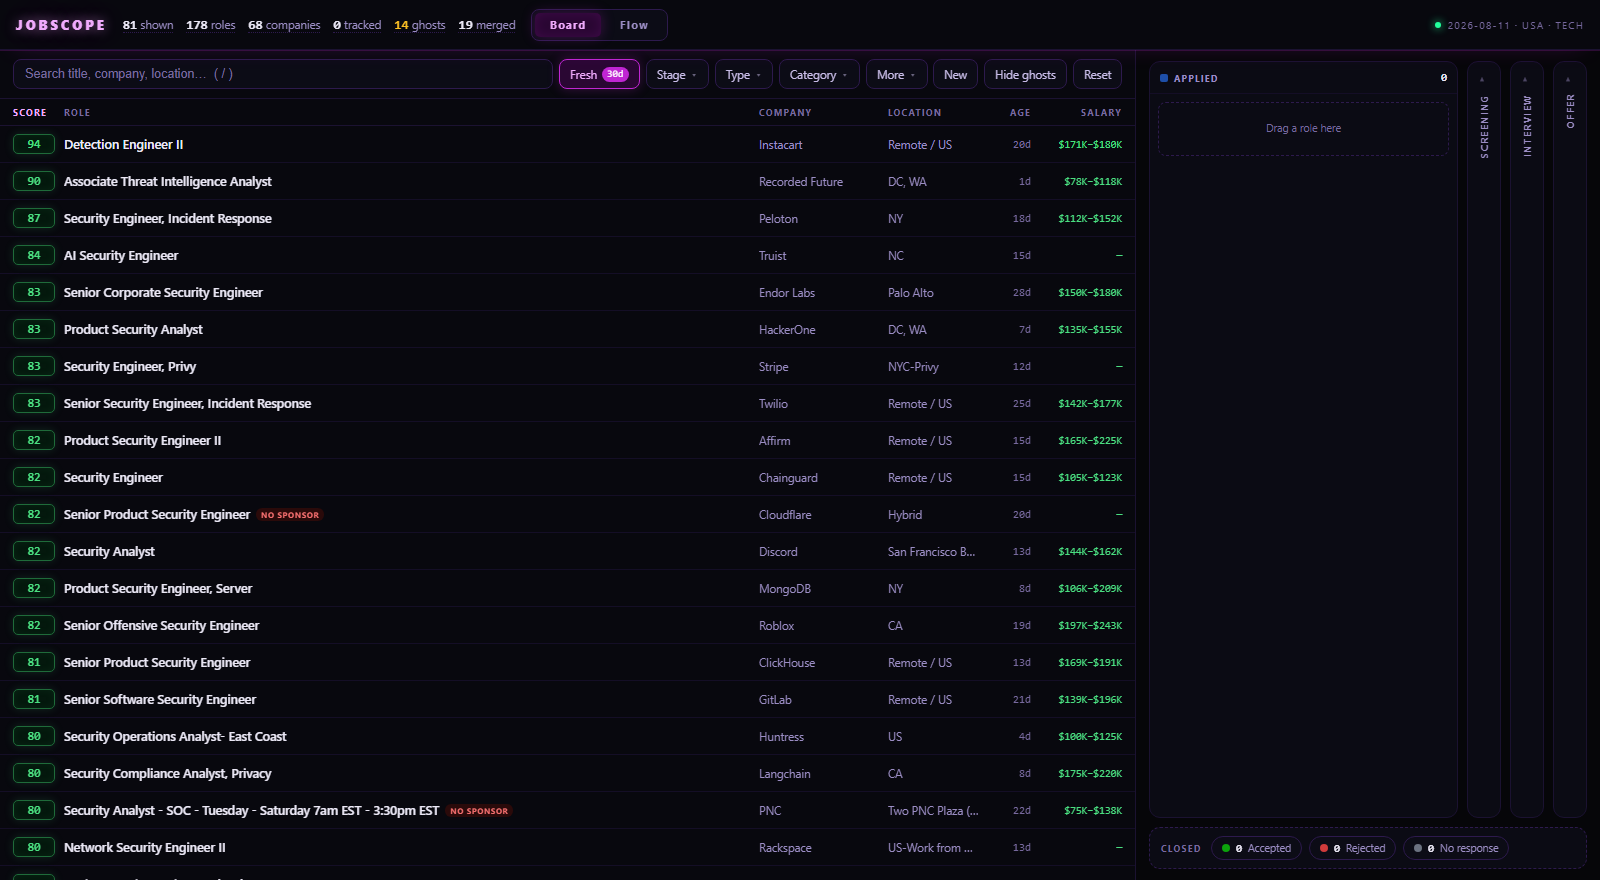
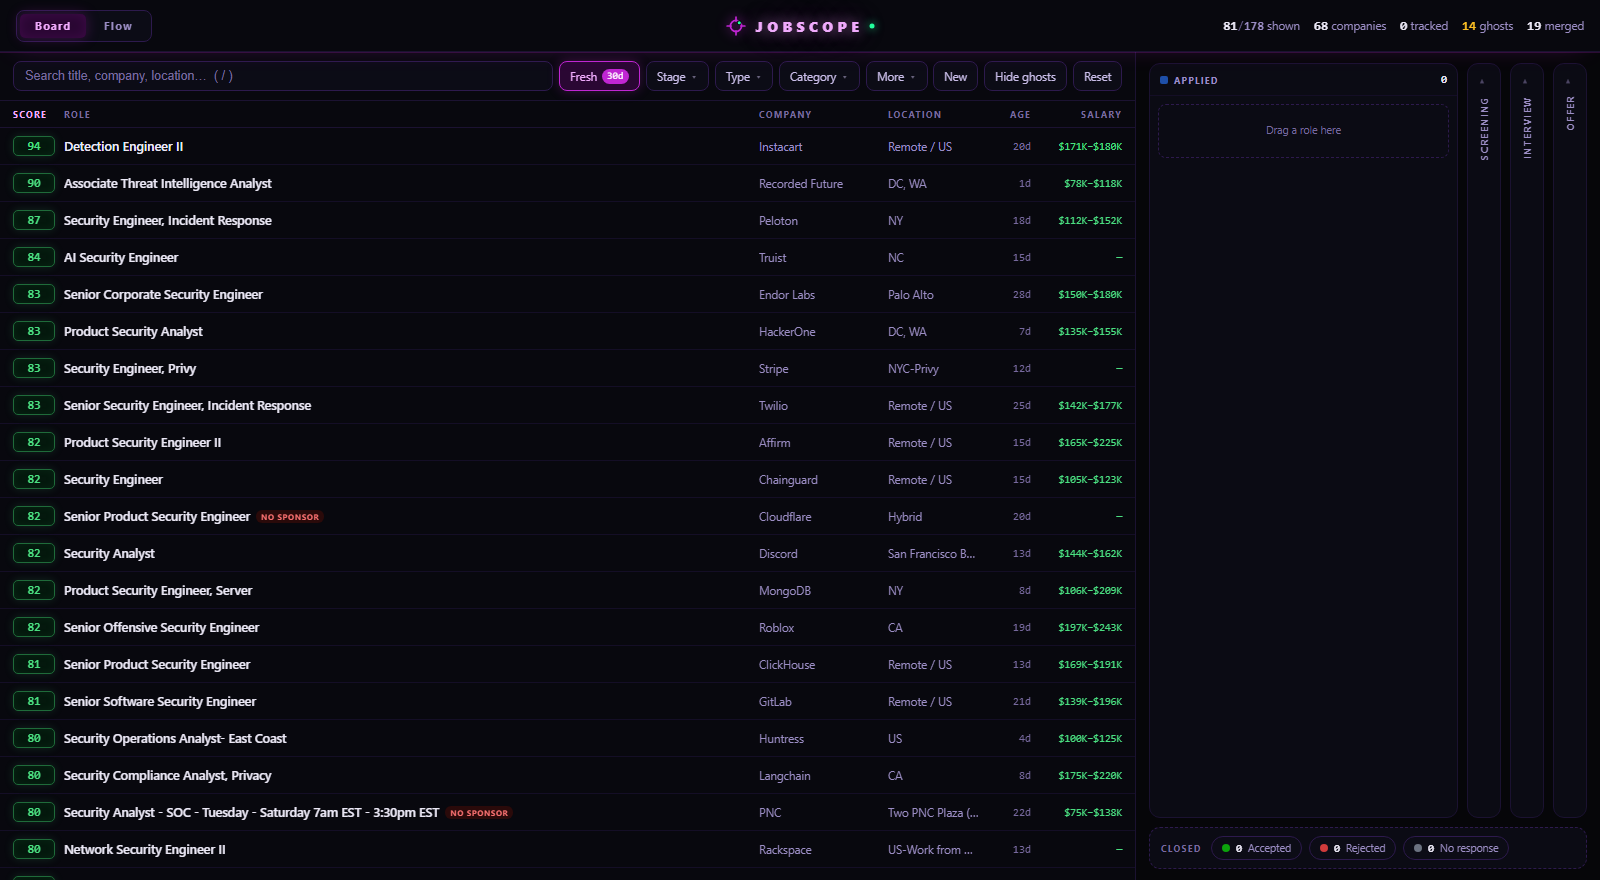
Kanban titles link to the posting; centre the brand and rebalance the header
A card parked in Applied is precisely the thing you come back to apply to, and
there was no way to reach the posting from it — clicking anywhere opened the
note editor instead. The card title is now the link. Two details that matter:
draggable="false" on the anchor, or the browser hijacks the card's drag with
its own link-drag and the card can no longer be grabbed by its title; and the
note toggle now ignores clicks that landed on a link.

Header: tabs left, brand dead-centre, stats right. The brand is absolutely
positioned rather than flexed so it sits on the page's midline regardless of
how wide the side groups grow, and its mark is the same reticle as the taskbar
icon. The run date and "USA · tech" line is gone from the corner and lives in
the brand's tooltip instead; "shown" now reads 81/178 rather than needing a
separate total.

diff --git a/scripts/dashboard_assets.py b/scripts/dashboard_assets.py
@@ -62,26 +62,42 @@ button{font-family:inherit}
 .app{display:flex;flex-direction:column;height:100vh}
 
 /* ---------------------------------------------------------------- top bar */
-.top{display:flex;align-items:center;gap:16px;padding:0 16px;height:50px;flex-shrink:0;
+/* Tabs left, brand dead-centre, stats right. The brand is absolutely centred
+   rather than flexed, so it stays on the page's midline no matter how wide the
+   two side groups grow. The mark is the same reticle as the taskbar icon. */
+.top{display:flex;align-items:center;gap:16px;padding:0 16px;height:52px;flex-shrink:0;
      background:var(--pane);border-bottom:1px solid var(--edge);position:relative;z-index:40;
      box-shadow:0 1px 0 #c026d333,0 8px 26px -16px #c026d355}
-.brand{font-size:13px;font-weight:800;letter-spacing:3px;text-transform:uppercase;
-       color:var(--neon-ink);text-shadow:0 0 12px #f0abfc99,0 0 32px #c026d355}
-.kpi{display:flex;gap:13px;font-size:11.5px;color:var(--ink-3);white-space:nowrap}
+.brand{position:absolute;left:50%;top:50%;transform:translate(-50%,-50%);
+       display:flex;align-items:center;gap:9px;text-decoration:none;
+       color:var(--neon-ink);white-space:nowrap;transition:filter .25s}
+.brand:hover{filter:brightness(1.15)}
+.brand svg{width:21px;height:21px;flex-shrink:0;color:var(--neon);
+           filter:drop-shadow(0 0 6px #c026d3aa)}
+.brand span{font-size:14px;font-weight:800;letter-spacing:4.5px;text-transform:uppercase;
+            text-shadow:0 0 14px #f0abfcaa,0 0 34px #c026d366}
+.brand b{display:inline-block;width:5px;height:5px;border-radius:50%;background:#22ff9c;
+         box-shadow:0 0 8px #22ff9c;margin-left:6px;vertical-align:3px;
+         animation:pulse 2.6s infinite}
+@keyframes pulse{0%{opacity:1}50%{opacity:.3}100%{opacity:1}}
+
+.kpi{margin-left:auto;display:flex;gap:14px;font-size:11.5px;color:var(--ink-3);
+     white-space:nowrap;z-index:1}
 .kpi b{font-family:var(--num);color:var(--ink);font-size:13px}
-.kpi span[data-tip]{border-bottom:1px dotted var(--edge-2)}
+.kpi i{font-style:normal;color:var(--ink-4);margin:0 1px}
+.kpi .tot{color:var(--ink-3);font-size:12px}
+.kpi span{cursor:help;transition:color .15s}
+.kpi span:hover{color:var(--ink-2)}
 .kpi .warn b{color:var(--amber)}
+
 .tabs{display:flex;gap:3px;padding:3px;background:var(--field);border:1px solid var(--edge-2);
-      border-radius:var(--r)}
+      border-radius:var(--r);z-index:1}
 .tab{padding:5px 15px;font-size:10.5px;font-weight:700;letter-spacing:1.4px;cursor:pointer;
      background:none;border:0;color:var(--ink-3);border-radius:5px;transition:.2s}
 .tab:hover{color:var(--ink-2)}
 .tab.on{background:#2a0733;color:var(--neon-ink);box-shadow:0 0 14px #c026d344,inset 0 0 12px #c026d322}
-.live{margin-left:auto;display:flex;align-items:center;gap:7px;font-size:10px;letter-spacing:1.2px;
-      color:var(--ink-4);text-transform:uppercase;white-space:nowrap}
-.live .dot{width:6px;height:6px;border-radius:50%;background:#22ff9c;box-shadow:0 0 9px #22ff9c;
-           animation:pulse 2.6s infinite}
-@keyframes pulse{0%{opacity:1}50%{opacity:.35}100%{opacity:1}}
+
+@media(max-width:1240px){ .brand span{display:none} }
 
 .main{flex:1;display:flex;min-height:0}
 
@@ -232,8 +248,11 @@ button{font-family:inherit}
 .kc:hover::after{transform:translateX(130%)}
 .kc.dragging{opacity:.35}
 @keyframes rise{from{opacity:0;transform:translateY(8px)}to{opacity:1;transform:none}}
-.kc .kt{font-size:11.5px;font-weight:600;line-height:1.32;color:var(--ink);margin-bottom:2px;
-        padding-right:16px}
+.kc .kt{display:block;font-size:11.5px;font-weight:600;line-height:1.32;color:var(--ink);
+        margin-bottom:2px;padding-right:18px;text-decoration:none;transition:color .15s}
+.kc .kt:hover{color:var(--neon-ink);text-shadow:0 0 10px #c026d366}
+.kc .kt::after{content:'97';opacity:0;margin-left:5px;font-size:10px;transition:opacity .15s}
+.kc:hover .kt::after{opacity:.55}
 .kc .kco{font-size:10.5px;color:var(--ink-3)}
 .kmeta{display:flex;align-items:center;gap:5px;margin-top:6px;font-size:9.5px;color:var(--ink-4);
        font-family:var(--num);flex-wrap:wrap}
@@ -656,10 +675,15 @@ function kcard(id) {
   const note = (e.note || '').trim();
   const div = document.createElement('div');
   div.className = 'kc'; div.draggable = true; div.dataset.id = id;
-  div.innerHTML = `<button class="kx" title="Back to Not applied">\\u00d7</button>
-    <div class="kt">${j.title}</div><div class="kco">${j.comp}</div>
+  // The title is the way to the posting — a card you have parked in Applied is
+  // exactly the thing you come back to apply to. draggable="false" on the
+  // anchor matters: without it the browser hijacks the card's drag with its own
+  // link-drag, and the card can no longer be moved by grabbing its title.
+  div.innerHTML = `<button class="kx" data-tip="Back to Not applied">\\u00d7</button>
+    <a class="kt" href="${j.url}" target="_blank" rel="noopener" draggable="false"
+       data-tip="Open the posting to apply">${j.title}</a><div class="kco">${j.comp}</div>
     <div class="kmeta"><span>${j.region}</span><span>\\u00b7</span><span>${j.age}</span>
-      ${note ? '<span class="nbadge" title="Has a note">\\u270e</span>' : ''}
+      ${note ? '<span class="nbadge" data-tip="Has a note">\\u270e</span>' : ''}
       <span class="ks">${j.salary || ''}</span></div>`;
   return div;
 }
@@ -760,6 +784,7 @@ $('.cols').addEventListener('dragend', e => {
 $('.cols').addEventListener('click', e => {
   const x = e.target.closest('.kx');
   if (x) { move(x.closest('.kc').dataset.id, 'none'); return; }
+  if (e.target.closest('a')) return;        // opening the posting is not a note
   const card = e.target.closest('.kc');
   if (!card || e.target.classList.contains('knote')) return;
   let n = card.querySelector('.knote');

diff --git a/scripts/build_dashboard.py b/scripts/build_dashboard.py
@@ -358,21 +358,33 @@ PAGE = """<!doctype html>
 <body>
 <div class="app">
   <div class="top">
-    <div class="brand">Jobscope</div>
-    <div class="kpi">
-      <span data-tip="Roles passing the filters you have set right now"><b id="shown">0</b> shown</span>
-      <span data-tip="Every role this run matched, before filtering"><b>__JOBS__</b> roles</span>
-      <span data-tip="Distinct companies across those roles"><b>__COMPANIES__</b> companies</span>
-      <span data-tip="Roles you have moved onto the board (Applied and beyond)"><b id="kTracked">0</b> tracked</span>
-      <span class="warn" data-tip="<b>Possible ghost jobs.</b> The req has stayed open unusually long, or the same title keeps getting reposted under a new id. Often an evergreen pipeline rather than a live opening.">
-        <b>__GHOSTS__</b> ghosts</span>
-      <span data-tip="<b>Duplicate rows folded together.</b> The same title at the same company posted once per city becomes one row carrying every location"><b>__MERGED__</b> merged</span>
-    </div>
     <div class="tabs">
       <button class="tab on" data-view="board">Board</button>
       <button class="tab" data-view="flow">Flow</button>
     </div>
-    <div class="live"><span class="dot"></span>__DATE__ &middot; USA &middot; Tech</div>
+
+    <a class="brand" href="#" data-tip="Run of __DATE__ &middot; USA &middot; tech only.
+       Nothing is submitted for you.">
+      <svg viewBox="0 0 32 32" aria-hidden="true">
+        <circle cx="16" cy="16" r="8.5" fill="none" stroke="currentColor" stroke-width="2.6"/>
+        <path d="M16 2.5v6M16 23.5v6M2.5 16h6M23.5 16h6" stroke="currentColor"
+              stroke-width="2.6" stroke-linecap="round"/>
+        <circle cx="21" cy="11" r="3.6" fill="var(--bg)"/>
+        <circle cx="21" cy="11" r="2.4" fill="#22ff9c"/>
+      </svg>
+      <span>Jobscope<b></b></span>
+    </a>
+
+    <div class="kpi">
+      <span data-tip="Roles passing the filters you have set right now, out of every role this run matched">
+        <b id="shown">0</b><i>/</i><b class="tot">__JOBS__</b> shown</span>
+      <span data-tip="Distinct companies across those roles"><b>__COMPANIES__</b> companies</span>
+      <span data-tip="Roles you have moved onto the board (Applied and beyond)"><b id="kTracked">0</b> tracked</span>
+      <span class="warn" data-tip="<b>Possible ghost jobs.</b> The req has stayed open unusually long, or the same title keeps getting reposted under a new id. Often an evergreen pipeline rather than a live opening.">
+        <b>__GHOSTS__</b> ghosts</span>
+      <span data-tip="<b>Duplicate rows folded together.</b> The same title at the same company posted once per city becomes one row carrying every location">
+        <b>__MERGED__</b> merged</span>
+    </div>
   </div>
 
   <div class="main">

diff --git a/README.md b/README.md
@@ -124,8 +124,9 @@ A dense **list** on the left and a drag-and-drop **kanban** on the right.
   things progress, and drag one **back onto the list** to untrack it. Every
   move raises an **Undo** toast.
 - **Closed strip** — Accepted · Rejected · No response. Also drop targets.
-- Click a kanban card to open an inline **note**; the card shows a ✎ when it
-  has one. The date you first move something to Applied is recorded.
+- A kanban card's **title links to the posting** — a card parked in Applied is
+  exactly what you come back to apply to. Clicking anywhere else on the card
+  opens an inline **note**; the card shows a ✎ when it has one. The date you first move something to Applied is recorded.
 - **Filters** — a single thin row above the list: search (`/` focuses it),
   **Fresh ≤30d** (on by default), Stage, Type, Category, and **More** for
   Level, Experience, Posted, Salary, State, Source and Company. Every dropdown
